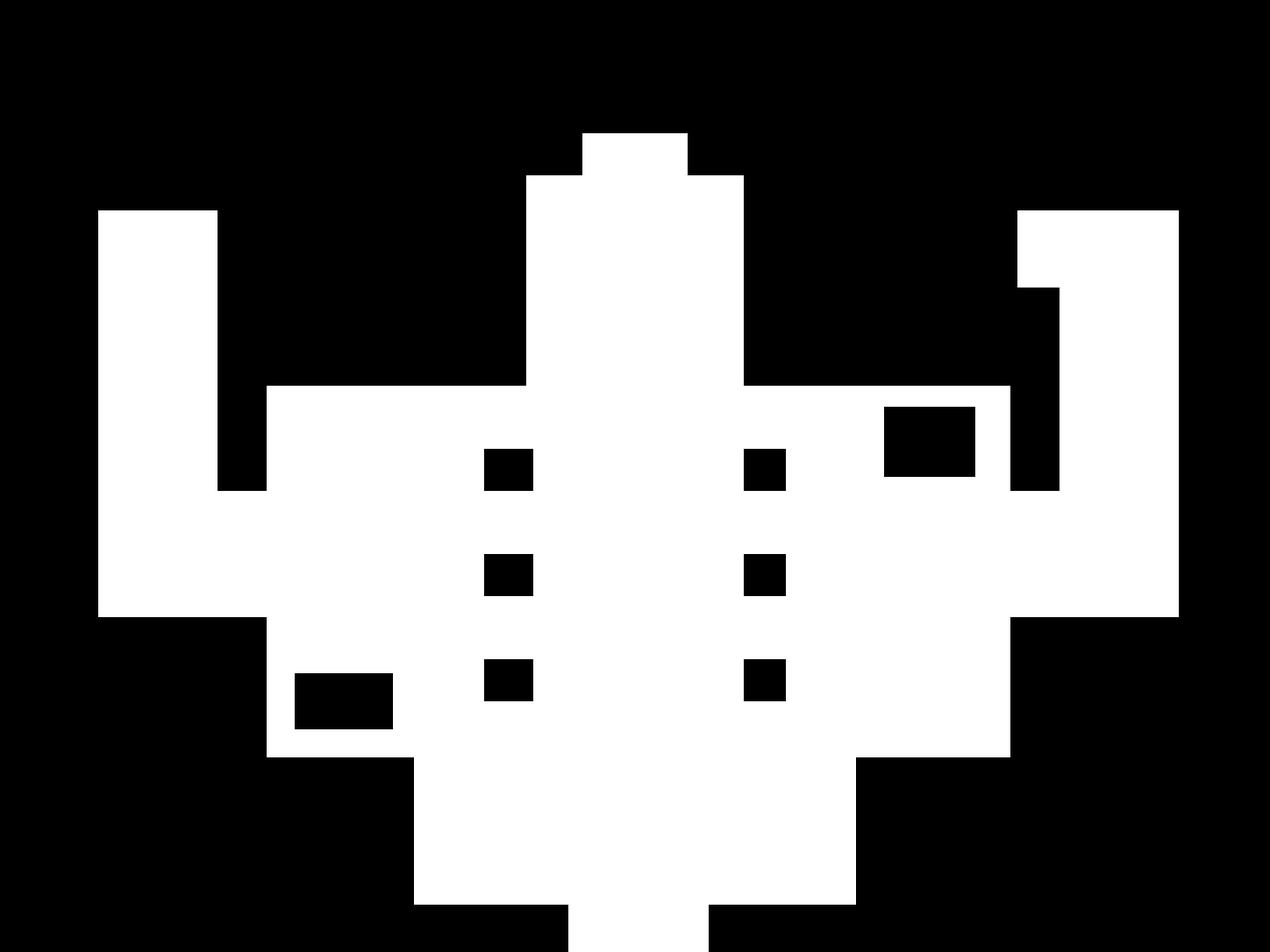
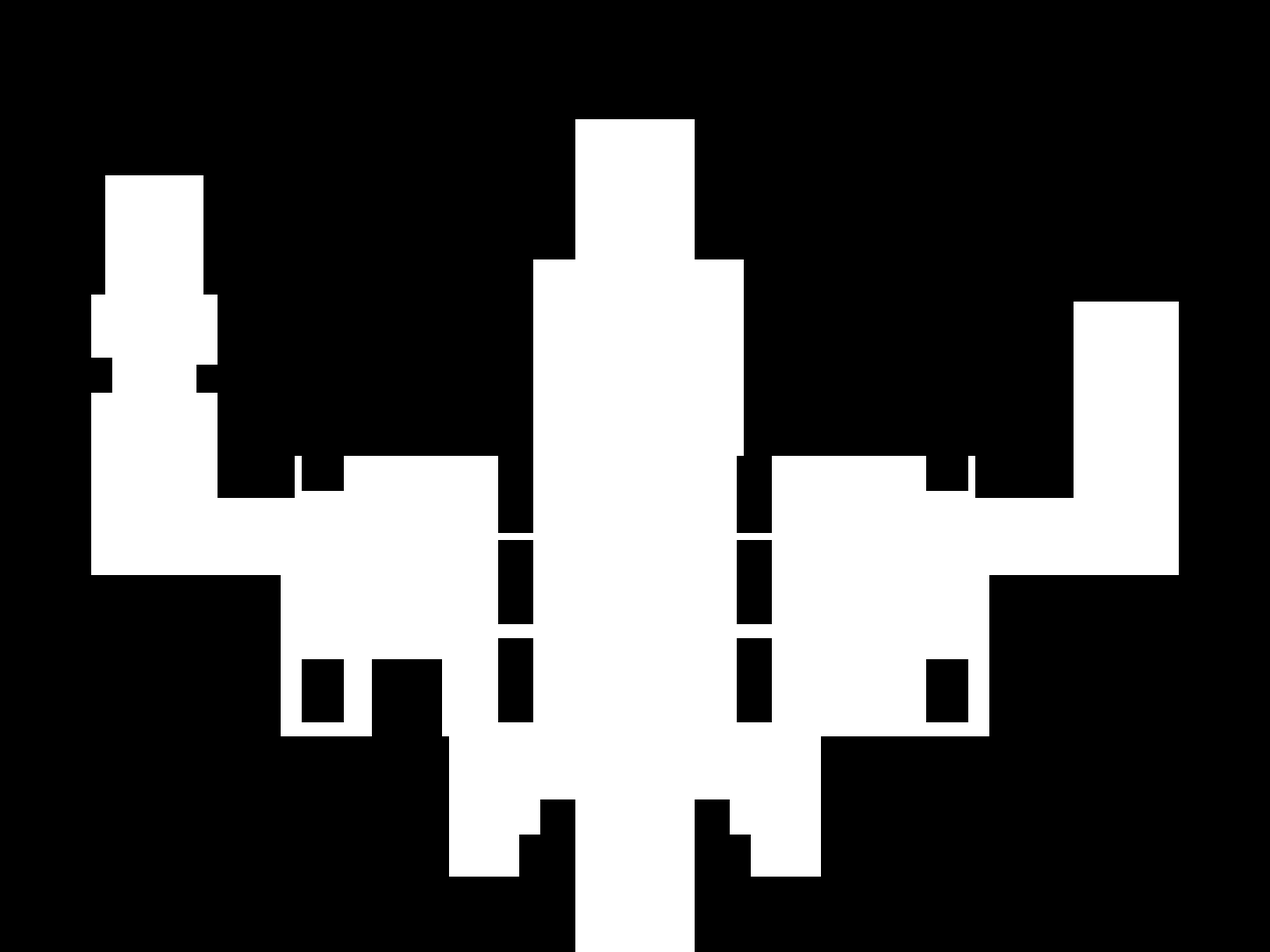
feat: Rainland castle (No.05) official 2D background, regenerated collision and re-placed spawn/NPCs/events
Replace the DEV_PLACEHOLDER layout of map_05_rainland_castle with the user-supplied
top-down castle interior (1448x1086, byte-identical to the preserved original in
assets/maps/reference/reference/). The Scene code is unchanged (comment only).

- map.json: assetStatus CURRENT (size unchanged).
- collision.png is now generated by tools/build_rainland_castle_collision.py from
  floor/obstacle rectangles measured on the real art (8px cell grid, inset from the
  walls; --preview writes a red overlay for review). Walkable: gate stem, entrance
  hall, central hall, carpet up to the throne door with the strips beside it, west
  wing + stairs, east wing up to the small room. 38 collision rects.
- Removed tools/build_rainland_castle_placeholder.py (re-running it would have
  overwritten the official background).
- Re-placed spawn (725,960), the 5 placeholder NPCs and the 5 event zones on the new
  art; ids/commands and the town gate -> castle -> exit -> town gate route are unchanged.
- Tests/docs/asset catalog updated (background+collision now CURRENT, original
  registered as reference). Test check points were moved onto wide floor instead of
  widening the collision.
- Voxel/first-person castle is NOT implemented; the block-style image stays a
  reference only.

Only castle-related hunks are included; concurrent Majin cave / opening / battle work
in the same tree is intentionally left unstaged.

Changed region(s): [[0.0622, 0.1215, 0.5905, 1.0], [0.5594, 0.2127, 0.9323, 0.7597], [0.5283, 0.5773, 0.9323, 1.0]]

diff --git a/src/config/maps.ts b/src/config/maps.ts
@@ -339,8 +339,8 @@ export const MAPS: Record<MapId, MapDefinition> = {
     npcs: [],
     buildings: [],
   },
-  // No.05「レインランドじょう」。通常RPG方式(画像マップ)の城内。座標は background.png(現在はDEV_PLACEHOLDERの
-  // 単色レイアウト、1448×1086)のネイティブ背景ピクセル。正式背景が届いたら spawn / NPC / events.json を測り直す。
+  // No.05「レインランドじょう」。通常RPG方式(画像マップ)の城内。座標は background.png(ユーザー提供の城内背景、
+  // 1448×1086)のネイティブ背景ピクセル。背景を差し替えたら spawn / NPC / events.json / collision.png を測り直す。
   // 入口は「レインランドじょうかまちの北の城門 → MapId + spawnId(fromCastleTown)」だけで固定してある(世界地図には直接載せない)。
   // 将来ここだけブロック城(Voxel)Sceneへ差し替える場合は、sceneKey を差し替え先へ変え、main.tsへそのSceneを登録すればよい
   // (町の北門Event・出口Eventは変更不要)。
@@ -349,18 +349,18 @@ export const MAPS: Record<MapId, MapDefinition> = {
     sceneKey: "RainlandCastleScene",
     spawns: {
       // レインランドじょうかまちの北の城門から入る正式spawn。城門を入った入口ホール、上向き。城外への出口Event zone(y:1050-1086)と重ならない。
-      fromCastleTown: { x: 725, y: 985, facing: "up" },
+      fromCastleTown: { x: 725, y: 960, facing: "up" },
     },
     // 正式出口は assets/maps/rainland_castle/events.json の城門Event(レインランドじょうかまちの北の城門前へ)で管理する。
     exits: [],
     // DEV_PLACEHOLDER_NPC: 会話は data/dialogues.ts のDEV_PLACEHOLDER_DIALOGUE。正式な人数・役割・台詞は
     // docs/NPC/04_rainland_castle.md(NEXT_TO_DESIGN)の確定待ち。ミレイの正体に触れる台詞は置いていない。
     npcs: [
-      { id: "rainland_castle_gate_soldier", mapId: "map_05_rainland_castle", position: { x: 575, y: 955 }, facing: "right", dialogueId: "rainland_castle_gate_soldier" },
-      { id: "rainland_castle_hall_soldier", mapId: "map_05_rainland_castle", position: { x: 650, y: 480 }, facing: "down", dialogueId: "rainland_castle_hall_soldier" },
-      { id: "rainland_castle_throne_guard", mapId: "map_05_rainland_castle", position: { x: 630, y: 240 }, facing: "right", dialogueId: "rainland_castle_throne_guard" },
-      { id: "rainland_castle_servant", mapId: "map_05_rainland_castle", position: { x: 180, y: 470 }, facing: "right", dialogueId: "rainland_castle_servant" },
-      { id: "rainland_castle_resident", mapId: "map_05_rainland_castle", position: { x: 1060, y: 585 }, facing: "up", dialogueId: "rainland_castle_resident" },
+      { id: "rainland_castle_gate_soldier", mapId: "map_05_rainland_castle", position: { x: 565, y: 925 }, facing: "right", dialogueId: "rainland_castle_gate_soldier" },
+      { id: "rainland_castle_hall_soldier", mapId: "map_05_rainland_castle", position: { x: 632, y: 400 }, facing: "right", dialogueId: "rainland_castle_hall_soldier" },
+      { id: "rainland_castle_throne_guard", mapId: "map_05_rainland_castle", position: { x: 676, y: 190 }, facing: "right", dialogueId: "rainland_castle_throne_guard" },
+      { id: "rainland_castle_servant", mapId: "map_05_rainland_castle", position: { x: 160, y: 500 }, facing: "right", dialogueId: "rainland_castle_servant" },
+      { id: "rainland_castle_resident", mapId: "map_05_rainland_castle", position: { x: 1000, y: 640 }, facing: "left", dialogueId: "rainland_castle_resident" },
     ],
     buildings: [],
   },

diff --git a/src/scenes/RainlandCastleScene.ts b/src/scenes/RainlandCastleScene.ts
@@ -1,8 +1,8 @@
 import { RainlandImageMapScene } from "./RainlandForestScene.ts";
 import type { RainlandMapPackage } from "./RainlandForestScene.ts";
 
-// 背景・Collisionは現在DEV_PLACEHOLDER(map.jsonのassetStatus、tools/build_rainland_castle_placeholder.pyが生成する単色レイアウト)。
-// 正式な城内背景が届いたら assets/maps/rainland_castle/ の画像とmap.jsonを差し替えるだけでよく、このファイルは変更しない。
+// 背景はユーザー提供の城内背景(CURRENT)、collision.pngはtools/build_rainland_castle_collision.pyが生成する。
+// 背景を差し替える場合は assets/maps/rainland_castle/ の画像とmap.jsonを差し替えるだけでよく、このファイルは変更しない。
 const CASTLE: RainlandMapPackage = {
   mapId: "map_05_rainland_castle",
   keyPrefix: "image-map.rainland-castle",

diff --git a/tools/build_rainland_castle_collision.py b/tools/build_rainland_castle_collision.py
@@ -1,0 +1,103 @@
+# -*- coding: utf-8 -*-
+"""Build assets/maps/rainland_castle/collision.png for the CURRENT No.05 レインランドじょう background.
+
+background.png (1448x1086, user-supplied 城内 artwork, byte-identical to
+assets/maps/reference/reference/レインランドじょう_城内.png) is never modified. The walkable floor and the
+obstacles below were measured from that artwork (grid-annotated zoom crops, then checked with --preview) and
+are the hand-fixable source of truth for collision.png:
+
+    python tools/build_rainland_castle_collision.py                 # rewrite collision.png
+    python tools/build_rainland_castle_collision.py --preview out.png   # + the background with blocked areas tinted red
+
+white = walkable / black = blocked. All coordinates are native background pixels (the Scene multiplies them by
+worldScale). Every edge is a multiple of the 8px runtime cell (map.json collisionCellSize) so the mask, the runtime
+Collision and this description agree exactly; the only exception is the bottom map edge (1086).
+
+When the background is replaced again: re-measure the rectangles below, rerun this script, then re-place the
+spawn / NPC / event coordinates (src/config/maps.ts, events.json). The Scene code does not depend on any of it.
+"""
+import argparse
+from pathlib import Path
+
+from PIL import Image, ImageDraw
+
+REPO_ROOT = Path(__file__).resolve().parent.parent
+MAP_DIR = REPO_ROOT / "assets" / "maps" / "rainland_castle"
+
+WIDTH, HEIGHT = 1448, 1086
+CELL = 8
+
+# Walkable floor (x0, y0, x1, y1), x1 / y1 exclusive. Inset a few px from the drawn walls so the feet box
+# (a small box at the character's feet) never appears to stand inside a wall.
+WALKABLE = [
+    # south gate stem below the carpet: reaches the bottom edge (the exit zone in events.json sits here)
+    ("gate stem", (656, 1000, 792, HEIGHT)),
+    # entrance hall (lamp posts and topiaries flank the carpet)
+    ("entrance hall", (512, 832, 936, 1000)),
+    # central hall
+    ("central hall", (320, 568, 1128, 840)),
+    ("central hall north", (336, 520, 1112, 568)),
+    # north: carpet up to the throne room door, plus the floor strips beside it below the banners
+    ("throne route carpet", (656, 136, 792, 520)),
+    ("throne route strip W", (608, 296, 656, 520)),
+    ("throne route strip E", (792, 296, 848, 520)),
+    # west wing: connecting corridor, the carpeted hall and the stairs at its north end
+    ("west connect", (248, 568, 328, 656)),
+    ("west wing", (104, 336, 248, 656)),
+    ("west stairs", (120, 200, 232, 336)),
+    # east wing: connecting corridor and the L-shaped carpeted hall leading to the small room at its north end
+    # (the 24px floor strip behind the console table is left blocked: too narrow for the feet box to enter)
+    ("east connect", (1120, 568, 1344, 656)),
+    ("east wing", (1224, 344, 1344, 568)),
+]
+
+# Blocked objects standing on the floor (x0, y0, x1, y1).
+OBSTACLES = [
+    # stone pedestals flanking the carpet, three per side
+    *[(x0, y0, x1, y1) for (x0, x1) in ((568, 608), (840, 880)) for (y0, y1) in ((520, 608), (616, 712), (728, 824))],
+    # potted topiaries in the central hall corners
+    (344, 480, 392, 560), (344, 752, 392, 824), (1056, 480, 1104, 560), (1056, 752, 1104, 824),
+    # framed picture + bench (south-west of the hall)
+    (424, 752, 504, 840),
+    # lamp posts and topiaries beside the entrance carpet
+    (616, 912, 656, 1000), (792, 912, 832, 1000), (592, 952, 624, 1000), (824, 952, 856, 1000),
+    # torch bases on the west wing walls
+    (96, 408, 128, 448), (224, 416, 248, 448),
+]
+
+
+def check_grid(rect):
+    for value in (rect[0], rect[1], rect[2]) + ((rect[3],) if rect[3] != HEIGHT else ()):
+        assert value % CELL == 0, f"{rect} is not aligned to the {CELL}px cell grid"
+
+
+def rect_box(rect):
+    x0, y0, x1, y1 = rect
+    return (x0, y0, x1 - 1, y1 - 1)
+
+
+def build(preview=None):
+    collision = Image.new("RGB", (WIDTH, HEIGHT), (0, 0, 0))
+    mask = ImageDraw.Draw(collision)
+    for _, rect in WALKABLE:
+        check_grid(rect)
+        mask.rectangle(rect_box(rect), fill=(255, 255, 255))
+    for rect in OBSTACLES:
+        check_grid(rect)
+        mask.rectangle(rect_box(rect), fill=(0, 0, 0))
+    collision.save(MAP_DIR / "collision.png", optimize=True)
+    print(f"wrote {MAP_DIR / 'collision.png'} ({WIDTH}x{HEIGHT})")
+
+    if preview:
+        background = Image.open(MAP_DIR / "background.png").convert("RGB")
+        assert background.size == (WIDTH, HEIGHT), f"background.png is {background.size}, expected {(WIDTH, HEIGHT)}"
+        red = Image.new("RGB", background.size, (255, 0, 0))
+        tint = collision.convert("L").point(lambda v: 120 if v < 128 else 0)
+        Image.composite(red, background, tint).save(preview)
+        print(f"wrote preview {preview}")
+
+
+if __name__ == "__main__":
+    parser = argparse.ArgumentParser()
+    parser.add_argument("--preview", help="also write the background with blocked areas tinted red to this path")
+    build(parser.parse_args().preview)

diff --git a/docs/PROJECT_STATUS.md b/docs/PROJECT_STATUS.md
@@ -2,13 +2,13 @@
 
 最終更新: 2026-09-20 JST
 
-## No.05 レインランドじょう（通常RPG方式の城内）= PARTIAL（2026-09-19着手・2026-09-20導線確定）
+## No.05 レインランドじょう（通常RPG方式の城内）= PARTIAL（2026-09-19着手・2026-09-20導線確定・正式背景差し替え）
 
 レインランドじょうかまちの**北の城門**（石段の上の木の扉、`event_rainland_castle_town_castle_gate`）から入り、城内を通常の2D RPG方式で歩ける`map_05_rainland_castle`／`RainlandCastleScene`を追加した（`assets/maps/rainland_castle/`）。`MAP_FLOW_SPEC.md`・町の名称・PROJECT_STATUSの既存記述が「城下町→北の城門→No.05」の世界構造を示しているため、**世界地図には城を直接載せていない**（着手時に一度追加した直通地点は取り下げ済み。世界地図は従来どおり7地点）。城から出ると、町の北の城門前（`fromCastle`、下向き）へ戻る。既存の画像マップ共通Scene（`RainlandImageMapScene`）へ城のパッケージを渡す薄いSceneで、独自のシステムは増やしていない。
 
 城内はコンパクトな1フロア：城門→入口ホール→中央ホール（赤い絨毯、柱、長机）→王の間の扉（未実装のため入れない）、西翼（廊下＋上階への階段の位置）、東翼（廊下＋小部屋）。仮NPC5人（門の兵士・城内の兵士・王の間前の兵士・使用人・城の住人）が既存の会話システムで話せる。イベント点は入口／王の間の入口／階段（「現在は進めない」のDEVログのみ）／東の小部屋（将来のイベント用の予約地点。ストーリー内容を含まない汎用ID`event_rainland_castle_east_room`、内容は未実装）／出口の5つ（`events.json`）。
 
-**背景は仮**: 城内の歩行用の画像が未提供のため、`map.json`の`assetStatus: "DEV_PLACEHOLDER"`の単色レイアウト画像を使っている。`tools/build_rainland_castle_placeholder.py`が`background.png`と`collision.png`を1つの定義から生成する。**正式画像への差し替えはデータだけ**（画像2枚＋`map.json`。Sceneのコードは変更しない）。既存の`レインランドじょう_イメージ.png`（城の外観、町の入場演出用）と`レインランドじょう_マイクラ風.png`（一人称のブロック城、将来のVoxel化用の参照）は2D歩行背景に使っていない。
+**背景は正式（2026-09-20差し替え）**: ユーザー提供の城内背景（1448×1086、`assets/maps/reference/reference/レインランドじょう_城内.png`）を無加工で`assets/maps/rainland_castle/background.png`へ置き、`map.json`を`assetStatus: "CURRENT"`にした（当初のDEV_PLACEHOLDER単色レイアウトはgit履歴に残る）。`collision.png`は背景から測った歩行領域・障害物の矩形を`tools/build_rainland_castle_collision.py`（`--preview`で歩行不可を赤く重ねた確認画像も出せる）が生成する（8pxセル格子に揃え、壁より少し内側）。歩行可能: 城門の通路・入口ホール・中央ホール・王の間の扉まで続く絨毯と両脇の床・西翼と階段・東翼と小部屋。歩行不可: 壁・柱・台座・鉢植え・絵と長椅子・ランプ台・燭台の土台・机の裏の細い床（足元判定が入れない細さ）。spawn（入口の絨毯）・NPC5人・イベント点5つを新しい絵の上へ置き直した（ID・コマンド・城内の導線は変更なし）。**Sceneのコードは変更していない**（コメントのみ）。`レインランドじょう_イメージ.png`（外観）と`レインランドじょう_マイクラ風.png`（一人称のブロック城）は2D歩行背景に使っていない。
 
 **共通Sceneの拡張**（他マップの挙動は変えない）: `RainlandImageMapScene`が、`MAPS[mapId].npcs`が空でないマップだけNPCと会話（DialogueBox）を有効にする。DEV_PLACEHOLDER専用の分岐は持たず、`map.json`の`assetStatus`をそのまま受け入れ、DEV表示に`[DEV_PLACEHOLDER]`を足し、`message`イベントをDEV時に`[IMAGE_MAP] <mapId> entered <eventId>`でログするだけ。
 
@@ -16,7 +16,7 @@
 
 **将来のブロック城化**: 入口の約束は「町の北の城門Event → MapId＋`fromCastleTown`spawn」と「出口Eventで町の城門前へ」だけで、町は`MAPS[..].sceneKey`経由で遷移する。差し替えは、新Sceneを作ってmain.tsへ登録し、`maps.ts`の`sceneKey`を切り替えるだけ。今回はVoxel Sceneも空Sceneも作っていない。
 
-検証: `npm run typecheck` PASS・`npm test` 263/263（着手前のベースライン246に新規`rainlandCastle.test.mjs`等を追加。実際の24×24判定でNPC本体を通行不可にしても、spawnから全イベント・全NPCの隣・階段・東翼の小部屋へ余裕6pxで到達できることを確認）・本番ビルド成功・ブラウザ実機（`game.step()`手動進行）で 町の北の城門→城→壁で停止→NPC5人と会話（会話中は移動ロック）→入口/王の間/階段/東の小部屋のイベント発火→出口→町の城門前（下向き、再トリガーなし）→再入場、タロサ・ミレイの追従、通常起動のタイトル、**既存の共通Scene利用マップの回帰**（レインランドのもり その1・その2・洞窟・城下町：Collision矩形数が基準と一致=310/315/291/350、DialogueBoxが作られない、決定入力を消費しない、メニュー・歩行・既存イベント・世界地図往復が従来どおり）、コンソールエラー0件。未実装／未確認: 正式な城内背景・Collision、正式NPC・台詞、王の間の中・上階、各イベント本編、BGM、iPhone Safari実機、ブロック城化。
+検証(正式背景への差し替え後、チェックポイントコミット`7205e1f`＋この変更だけの隔離環境): `npm run typecheck` PASS・`npm test` 263/263・`npm run build` 成功・ブラウザ実機で 町の北の城門→城→壁（ランプ台）で停止→NPC5人と会話→入口/王の間/階段/東の小部屋のイベント発火→出口→町の城門前→再入場、console error 0件（着手前のベースラインは246）。以前の検証: `npm run typecheck` PASS・`npm test` 263/263（新規`rainlandCastle.test.mjs`等を追加。実際の24×24判定でNPC本体を通行不可にしても、spawnから全イベント・全NPCの隣・階段・東翼の小部屋へ余裕6pxで到達できることを確認）・本番ビルド成功・ブラウザ実機（`game.step()`手動進行）で 町の北の城門→城→壁で停止→NPC5人と会話（会話中は移動ロック）→入口/王の間/階段/東の小部屋のイベント発火→出口→町の城門前（下向き、再トリガーなし）→再入場、タロサ・ミレイの追従、通常起動のタイトル、**既存の共通Scene利用マップの回帰**（レインランドのもり その1・その2・洞窟・城下町：Collision矩形数が基準と一致=310/315/291/350、DialogueBoxが作られない、決定入力を消費しない、メニュー・歩行・既存イベント・世界地図往復が従来どおり）、コンソールエラー0件。未実装／未確認: 正式な城内背景・Collision、正式NPC・台詞、王の間の中・上階、各イベント本編、BGM、iPhone Safari実機、ブロック城化。
 
 ## ジャンカードガチャのジャンコイン化・排出演出 = PARTIAL（2026-09-19）
 

diff --git a/docs/MAP_FLOW_SPEC.md b/docs/MAP_FLOW_SPEC.md
@@ -133,9 +133,9 @@
 - 本書§2のNo.05「レインランドじょう」を、城内を歩ける画像マップとして追加した。`assets/maps/rainland_castle/`（`map_05_rainland_castle`、`RainlandCastleScene`）。No.01と同じBACKGROUND/COLLISION/EVENT/OBJECT方式（`MAP_SYSTEM.md`）で`worldScale: 1.5`。
 - **導線（正式）**: レインランドじょうかまち(§4.12)の**北の城門**(`event_rainland_castle_town_castle_gate`、`transfer`) → 城門を入った入口ホール(`fromCastleTown`、上向き)。城の出口(`event_rainland_castle_exit`、`transfer`) → 町の北の城門前(`map_rainland_castle_town`の`fromCastle`、下向き)。**世界地図には城を直接載せない**（町が世界地図の地点であり、城は町の北の城門の先という既存の世界構造を優先した）。
 - 構成（コンパクトな1フロア）: 城門・入口ホール・中央ホール・王の間へ向かう絨毯の通路と扉（扉の先は未実装）・西翼（階段の位置）・東翼（小部屋）。NPCは仮5人。イベント点: 入口／王の間の入口／階段／東の小部屋(将来のイベント用の予約地点、内容と名称はストーリー非依存のIDで場所だけ確保)／出口。
-- **背景はDEV_PLACEHOLDER**（単色レイアウト。`tools/build_rainland_castle_placeholder.py`が背景とCollisionを生成、`map.json`の`assetStatus`）。正式背景への差し替えは画像2枚と`map.json`の更新のみ（`ASSET_INDEX.md`）。ユーザー提供の`レインランドじょう_イメージ.png`（外観）と`レインランドじょう_マイクラ風.png`（一人称のブロック城）は歩行背景ではない。
+- **背景は正式**（2026-09-20）: ユーザー提供の城内背景`レインランドじょう_城内.png`(1448×1086)を無加工でCURRENT背景にした（`map.json`の`assetStatus: CURRENT`）。`collision.png`は`tools/build_rainland_castle_collision.py`が背景から測った矩形で生成する。差し替えは画像2枚と`map.json`の更新のみ（`ASSET_INDEX.md`）。`レインランドじょう_イメージ.png`（外観）と`レインランドじょう_マイクラ風.png`（一人称のブロック城）は歩行背景ではない。
 - **将来のブロック城化**: 城内だけをブロック構成の特殊な城へ切り替える場合は、新Sceneを作ってmain.tsへ登録し、`config/maps.ts`の`map_05_rainland_castle.sceneKey`を切り替える。町の北門Eventと出口Eventは`MapId`と`spawnId`しか知らないため変更不要。NPC・台詞・イベントIDはデータ側に残る。
-- 未実装／TBD: 正式な城内背景、NPCの正式人数・台詞（`docs/NPC/04_rainland_castle.md`）、王の間・上階、各イベント本編、BGM。
+- 未実装／TBD: NPCの正式人数・台詞（`docs/NPC/04_rainland_castle.md`）、王の間・上階、各イベント本編、BGM。
 
 ## 5. 基本進行の大枠
 No.01 はじまりのばしょ

diff --git a/docs/MAP_SYSTEM.md b/docs/MAP_SYSTEM.md
@@ -69,7 +69,7 @@ assets/maps/<mapId>/
 
 7つ目のパッケージ `assets/maps/rainland_castle_town/`（レインランドじょうかまち、2026-09-19）は、俯瞰の町マップ`レインランドじょうかまち.png`(1447×1087)の無加工コピー`background.png`と、石畳の道・広場・石段・堀の橋だけを歩行可能にした`collision.png`を持つ。共通の`RainlandImageMapScene`（`RainlandForestScene.ts`から公開、もり その1・その2と共有）へ`RainlandCastleTownScene`がパッケージを渡す。町の道は石畳の色（黄土〜クリーム）で抽出し、シーム(継ぎ目)で分断された道を色で補完してつなぎ、石でできた橋の甲板を手で加え、桟橋・外壁の縁・屋根と色が近い部分を手で除き、道を明るい芝の縁へ11px広げた（樹冠・屋根・壁・水・柵には広げない）。
 
-8つ目のパッケージ `assets/maps/rainland_castle/`（No.05レインランドじょう、2026-09-19）は、城内の正式な歩行用画像が未提供のため`assetStatus: "DEV_PLACEHOLDER"`の単色レイアウトを持つ（`tools/build_rainland_castle_placeholder.py`が`background.png`と`collision.png`を同じ定義から生成）。共通の`RainlandImageMapScene`は、`map.json`の`assetStatus`（DEV_PLACEHOLDER/CURRENT）をそのまま受け入れ（正式背景への差し替えはデータだけで済む）、`MAPS[mapId].npcs`が空でないマップだけNPC・会話を有効にする。詳細は`MAP_FLOW_SPEC.md` §4.13、`ASSET_INDEX.md`。
+8つ目のパッケージ `assets/maps/rainland_castle/`（No.05レインランドじょう、2026-09-19着手・2026-09-20に正式背景へ差し替え）は、ユーザー提供の城内背景（1448×1086）の無加工コピー`background.png`と、床・絨毯・階段・小部屋を歩行可能にした`collision.png`を持つ。`collision.png`は背景から測った矩形を`tools/build_rainland_castle_collision.py`が8pxセル格子へ揃えて生成する手書き寄りの方式（画像解析を使わず、`--preview`で目視確認）。共通の`RainlandImageMapScene`は、`map.json`の`assetStatus`（DEV_PLACEHOLDER/CURRENT）をそのまま受け入れ（背景の差し替えはデータだけで済む）、`MAPS[mapId].npcs`が空でないマップだけNPC・会話を有効にする。詳細は`MAP_FLOW_SPEC.md` §4.13、`ASSET_INDEX.md`。
 
 #### 入場演出（`MapSplashScene`）
 

diff --git a/docs/TBD_REGISTRY.md b/docs/TBD_REGISTRY.md
@@ -109,7 +109,7 @@ TBD:
 - レインランドのもりの出現モンスター・エンカウント間隔・NPC・BGM（現在はランダムエンカウントなし）
 - レインランドじょうかまち(`destination_rainland_castle_town`、2026-09-19追加)のNo.04「レインランドのまち」との対応・正式名称・最終解放条件・世界地図上の位置。現在は番号なしの追加フィールド、`unlockFlag: null`の常時解放、座標は`DEV_PLACEHOLDER_POSITION`（実フラグ名は未定）
 - レインランドじょうかまちのNPC・店・建物内部・BGM、西・東の堀の橋の先の正式な接続先。現在は接続先未定の行き止まり（北の城門の先はNo.05レインランドじょうへ接続済み、2026-09-20）
-- No.05レインランドじょう(`map_05_rainland_castle`、2026-09-19追加)の正式な城内背景・Collision（現在はDEV_PLACEHOLDERの単色レイアウト）、正式な入場条件（現在は町の北の城門から常に入れる。世界地図には直接載せない）
+- No.05レインランドじょう(`map_05_rainland_castle`、2026-09-19追加)の正式な入場条件（現在は町の北の城門から常に入れる。世界地図には直接載せない）
 - レインランドじょうの正式なNPC人数・役割・台詞（`docs/NPC/04_rainland_castle.md`が`NEXT_TO_DESIGN`。現在の5人と台詞はDEV_PLACEHOLDER）、王の間の中・上階・階段先の構成、将来のストーリーイベントの内容と場所（東の小部屋`event_rainland_castle_east_room`を予約地点として確保しただけで、内容・名称はTBD）、BGM
 - 城内をブロック構成の特殊な城（Voxel）へ切り替えるか、その時期・範囲（`レインランドじょう_マイクラ風.png`を参照として保持。今回は実装しない）
 - 入場演出の細部（5秒の尺、地名の位置・書式、退場時の演出の有無、スキップ可否、BGM/SE）。現在は入場時のみ5秒(1秒/3秒/1秒)、地名は中央下、スキップ不可

diff --git a/docs/CONTENT_MATRIX.md b/docs/CONTENT_MATRIX.md
@@ -38,7 +38,7 @@ Phase 8.6では既存世界地図REFERENCEを背景にしたROUGH_FIELDを追加
 | 02 | はじまりのまち | CONFIRMED | DIALOGUE_DRAFT | PARTIAL: 2026-09-19にCURRENT背景画像方式(`StartingTownScene`、No.01と同じBACKGROUND/COLLISION/EVENT/OBJECT)へ移行。建物5棟(reference画像に実在する数へ6→5縮小、やどや/どうぐや/ぶきや/きょうかい/民家A)の外観+Collision・NPC5体(DEV_PLACEHOLDER)・パーティ加入・戦闘イベント・建物内部5室(InteriorScene、出入りあり)・西端でWorldMapSceneへ接続、まで実装。店/宿/教会機能・正式NPC・正式会話は未実装 | 会話原案あり。人数・配置はNPC_SPEC.mdで再検討中 |
 | 03 | ビーエのむら | CONFIRMED | DIALOGUE_DRAFT | PARTIAL: No.01と同じ画像マップ方式(`BieVillageScene`)で背景+Collision+北門Event+WorldMapScene接続まで実装。unlockFlagは実フラグ(`story.bie_village_unlocked`)で、SaveSystem未接続の間は`developmentUnlockedFlags`を暫定の解放状態として本番でも使い、世界地図から出入りできる(2026-09-19)。NPC・木こり救出イベント・ランダムエンカウントは未実装(会話原案が人数未確定のDIALOGUE_DRAFTのため) | 木こり救出事件あり。縮小後マップに合わせ再編集 |
 | 04 | レインランドのまち | CONFIRMED | DIALOGUE_DRAFT | 未実装 | 王家・ミレイ等の伏線あり |
-| 05 | レインランドじょう | CONFIRMED | DIALOGUE_DRAFT | PARTIAL(2026-09-20、DEV_PLACEHOLDER背景・仮NPC5人) | 王家・政治の中心 |
+| 05 | レインランドじょう | CONFIRMED | DIALOGUE_DRAFT | PARTIAL(2026-09-20、正式背景・仮NPC5人) | 王家・政治の中心 |
 | 06 | ザボンのむら | CONFIRMED | DIALOGUE_DRAFT | 未実装 | タロサ関連。ただし全員をタロサ話題にしない |
 | 07 | いしのむら | CONFIRMED | 未作成 | 未実装 | 石・岩の個性 |
 | 08 | まじんのどうくつ | CONFIRMED | - | 未実装 | ダンジョン |
